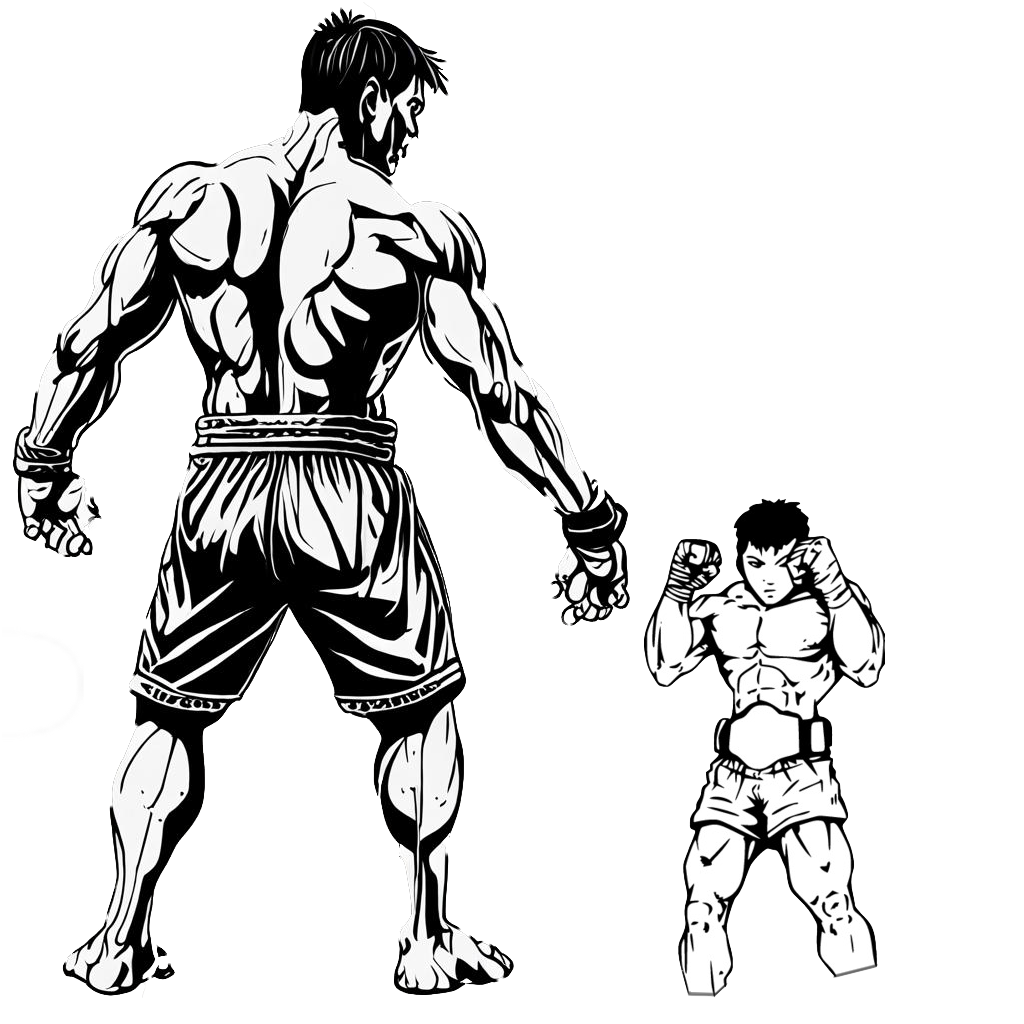
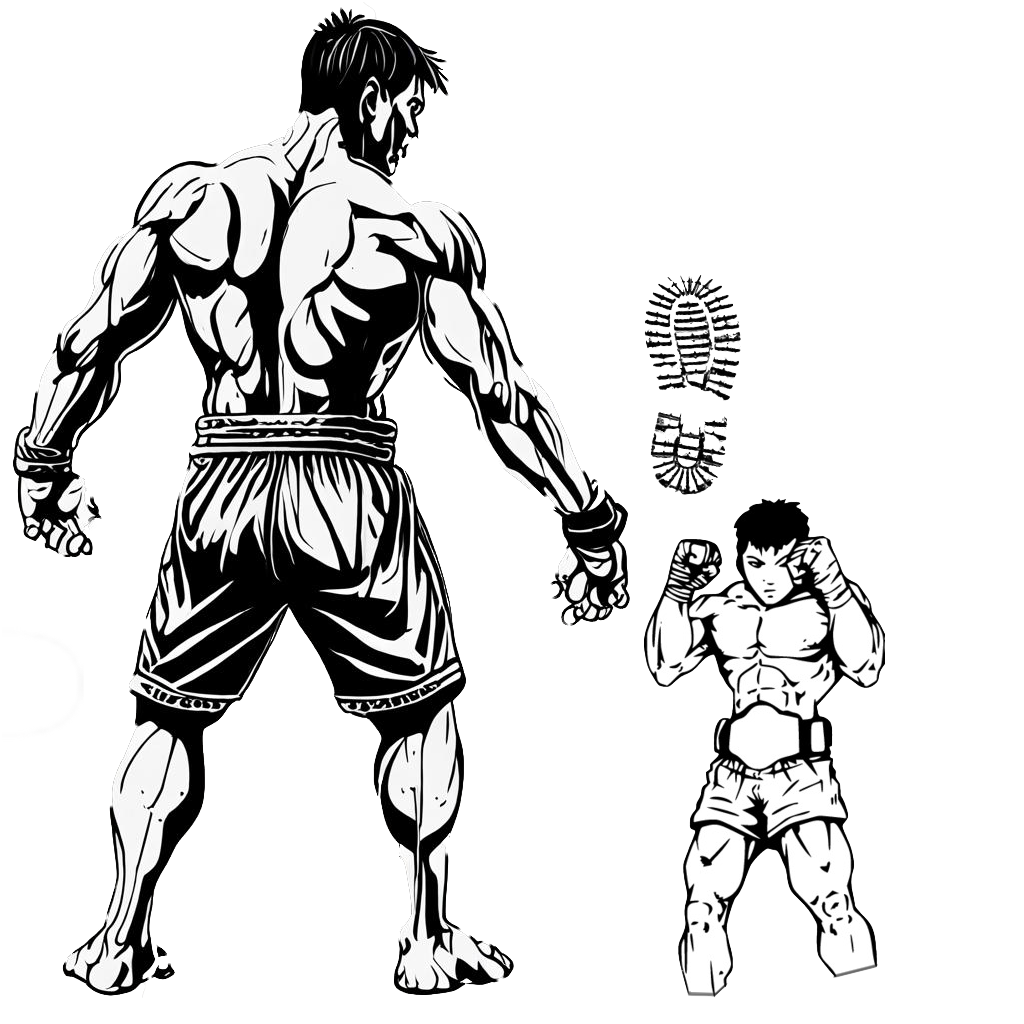
отпечаток ноги

Changed region(s): [[0.625, 0.25, 0.7188, 0.5]]

diff --git a/core/src/ru/fivestarter/dichlofos/game/fight/FightScreen.java b/core/src/ru/fivestarter/dichlofos/game/fight/FightScreen.java
@@ -20,7 +20,7 @@ public class FightScreen implements Screen {
     private SpriteBatch batch;
     private Sprite enemy;
     private Sprite hero;
-
+    private FightController fightController;
     public FightScreen(Assets assets) {
         this.assets = assets;
     }
@@ -33,6 +33,7 @@ public class FightScreen implements Screen {
         batch = new SpriteBatch();
         enemy = new Fighter(assets.findEnemy(), ENEMY_FRAME);
         hero = new Fighter(assets.findHero(), HERO_FRAME);
+        fightController = new FightController(assets);
     }
 
     @Override
@@ -44,6 +45,7 @@ public class FightScreen implements Screen {
         batch.begin();
         enemy.draw(batch);
         hero.draw(batch);
+        fightController.draw(delta, batch);
         batch.end();
     }
 

diff --git a/core/src/ru/fivestarter/dichlofos/game/fight/FightController.java b/core/src/ru/fivestarter/dichlofos/game/fight/FightController.java
@@ -1,0 +1,20 @@
+package ru.fivestarter.dichlofos.game.fight;
+
+import com.badlogic.gdx.graphics.g2d.Sprite;
+import com.badlogic.gdx.graphics.g2d.SpriteBatch;
+import com.badlogic.gdx.math.Rectangle;
+import ru.fivestarter.dichlofos.utils.Assets;
+
+public class FightController {
+    private static final Rectangle KICK_FRAME = new Rectangle(520, 380, 34, 75);
+    private final Sprite kick;
+
+    public FightController(Assets assets) {
+        this.kick = new Fighter(assets.findFootPrint(), KICK_FRAME);
+        kick.rotate(40);
+    }
+
+    public void draw(float delta, SpriteBatch batch) {
+        kick.draw(batch);
+    }
+}

diff --git a/core/src/ru/fivestarter/dichlofos/utils/Assets.java b/core/src/ru/fivestarter/dichlofos/utils/Assets.java
@@ -12,6 +12,7 @@ public class Assets {
     public static final String CAR = "car";
     public static final String MH_WALK = "mh_walk";
     public static final String MH_RUN = "mh_run";
+    public static final String FOOTPRINT = "footprint";
     private final AssetManager manager;
 
     public Assets() {
@@ -27,6 +28,10 @@ public class Assets {
 
     public TextureRegion findHero() {
         return getRegion(FIGHT_ATLAS_FILE_NAME, HERO);
+    }
+
+    public TextureRegion findFootPrint() {
+        return getRegion(FIGHT_ATLAS_FILE_NAME, FOOTPRINT);
     }
 
     public TextureRegion findCar() {
